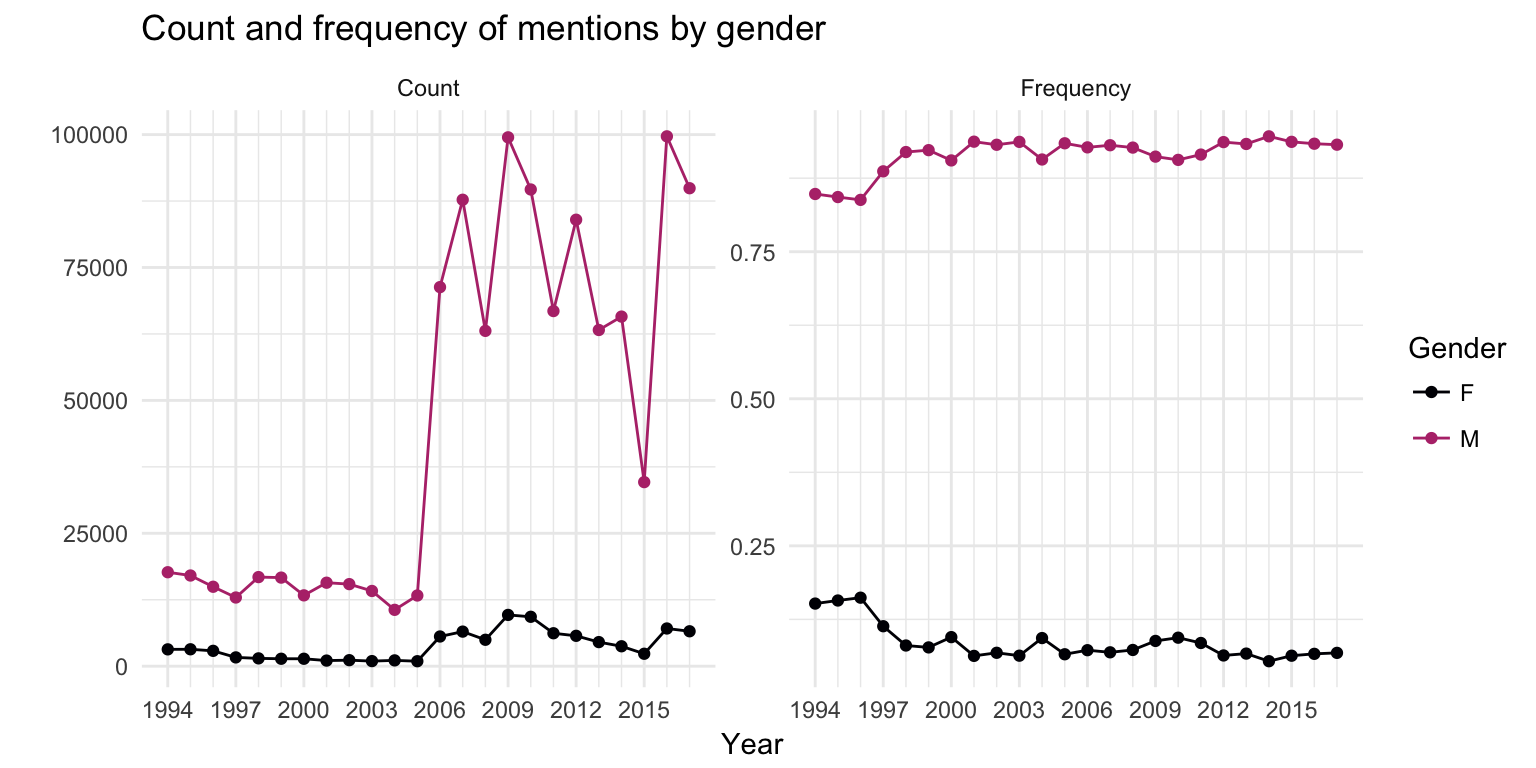
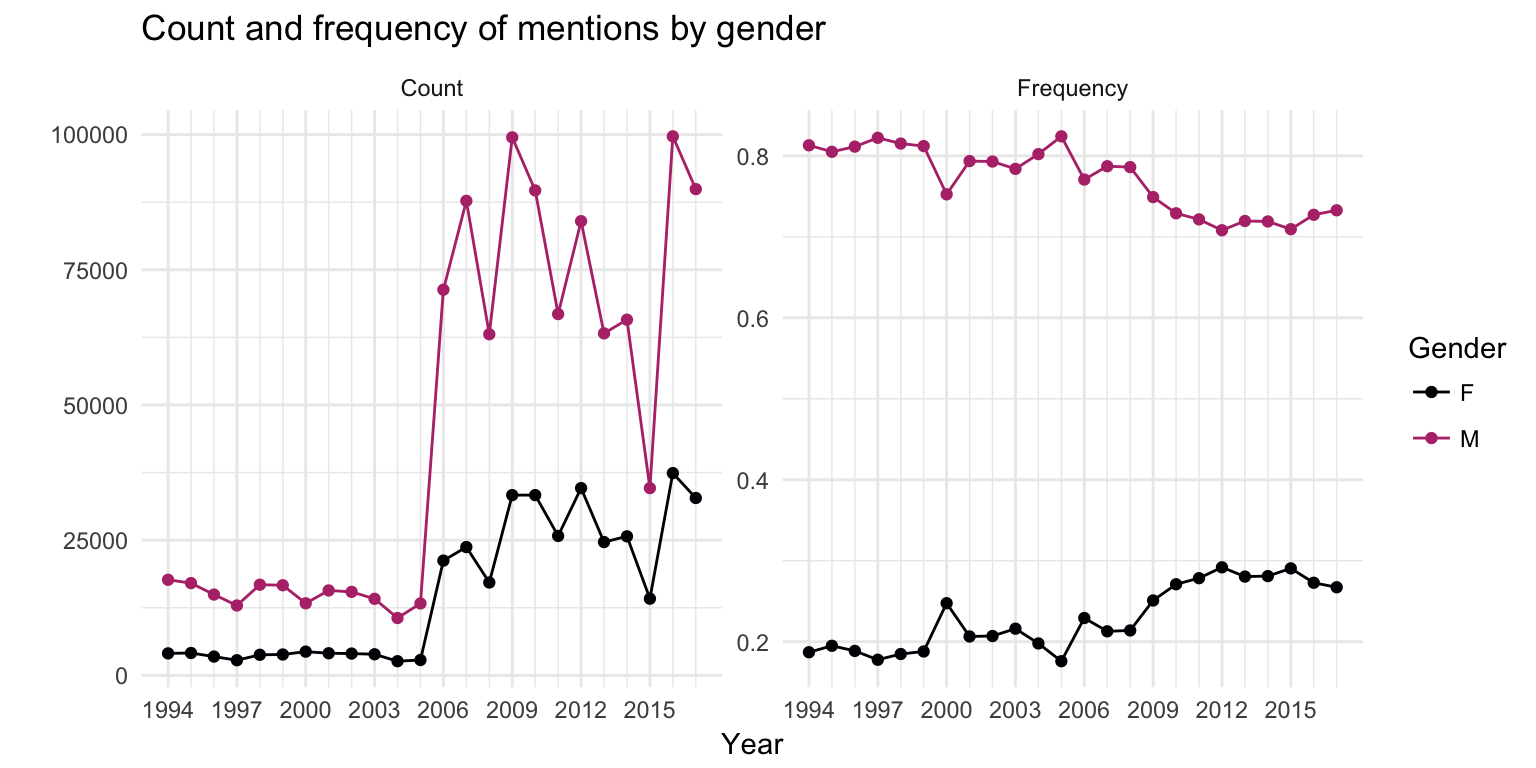
Ugh, turn back to draft.
Berg.

diff --git a/content/post/2018-02-14-parliament-gender.html b/content/post/2018-02-14-parliament-gender.html
@@ -5,8 +5,9 @@ date: '2018-02-14'
 slug: parliament-gender
 categories: ["r"]
 tags: ["r", "canada", "parliament", "gender", "bias", "text analysis", "hansard"]
-description: 'A look at digital copies of Canadian parliamentary debates 1994--2017, showing gender imbalance in both number of speakers and pattern of speakers.'
+description: 'A look at digital copies of Canadian parliamentary debates 1994--2017, showing gender imbalance in both number of speakers and time pattern of speakers.'
 image: "https://jesse.tw/images/circle-arrows.png"
+draft: TRUE
 ---
 
 
@@ -14,18 +15,18 @@ image: "https://jesse.tw/images/circle-arrows.png"
 <p>(Preface: I’m 🇨🇦 but idk anything about parliament and dk what a hansard was before I started this. So if you see something wrong, get the <a href="https://github.com/tweed1e/weblog/blob/master/content/post/2018-02-14-parliament-gender.Rmd">code from github</a> and diy!)</p>
 <div id="summary" class="section level2">
 <h2>Summary</h2>
-<p><a href="#dayplot">(Click to skip to the important pictures.)</a></p>
 <ol style="list-style-type: decimal">
 <li>Women make up 20-25% of Parliament</li>
 <li>Only 8% of speakers in Parliament are female</li>
 <li>That spikes to 13% during “Statements by Members” (one minute statements) and “Oral Questions” (question period), and drops during routine government business</li>
 <li>Nice to have Trudeau’s gender-balanced cabinet, but are female MPs left out of Parliament’s day-to-day business?</li>
 </ol>
+<p><a href="#dayplot">(Click to skip to the important pictures.)</a></p>
 </div>
 <div id="motivation" class="section level2">
 <h2>Motivation</h2>
 <p>When it comes to equality, Canada likes to talk a big game. What really happens in Parliament? Of course Trudeau likes to play up his female cabinet (extra props go to Chrystia Freeland for not capitulating to that weird Belgian area that was <a href="http://www.cbc.ca/news/politics/canada-eu-ceta-brussels-friday-1.3815332">holding up the Canada-EU trade agreement</a>, and I hope she can handle <a href="http://www.cbc.ca/news/politics/freeland-nafta-fifth-round-prepare-for-worst-1.4412673">you-who-know and NAFTA too</a>, although she switched from trade to foreign affairs).</p>
-<p>Don’t take anyone’s word for it; we have data on gender and parliament. What does it say? On one hand, we just set a <a href="https://en.wikipedia.org/wiki/Women_in_the_42nd_Canadian_Parliament">record for female MPs in the 2015 election</a>! On the other hand, that record is only 26%. Uh. Not great. But that’s only part of the story. A gender-balance cabinet helps (Trudeau appointed 15 female ministers out of a 30 minister cabinet). <em>But what actually happens when parliament gets down to business?</em></p>
+<p>But you don’t need to take anyone’s word for it; we have data on gender and parliament. What does it say? On one hand, we just set a <a href="https://en.wikipedia.org/wiki/Women_in_the_42nd_Canadian_Parliament">record for female MPs in the 2015 election</a>! On the other hand, that record is still only 26%. Uh. Not great. But that’s only part of the story. A gender-balance cabinet helps (Trudeau appointed 15 female ministers out of a 30 minister cabinet). <em>But what actually happens when parliament gets down to business?</em></p>
 </div>
 <div id="the-data-httpsopenparliament.ca" class="section level2">
 <h2>The data: <a href="https://openparliament.ca/" class="uri">https://openparliament.ca/</a></h2>
@@ -40,11 +41,11 @@ image: "https://jesse.tw/images/circle-arrows.png"
 <li>and read the table you’d like</li>
 </ol>
 <p>First, I didn’t have postgres. So google <a href="https://www.codementor.io/engineerapart/getting-started-with-postgresql-on-mac-osx-are8jcopb">like mad</a> and get super frustrated, then finally settle on this strat:</p>
-<pre><code>jessetweedle:~ jessetweedle$ brew install postgresql
-jessetweedle:~ jessetweedle$ createdb -T template0 openparl
-jessetweedle:~ jessetweedle$ psql openparl &lt; openparliament.public.sql</code></pre>
+<pre><code>$ brew install postgresql
+$ createdb -T template0 openparl
+$ psql openparl &lt; openparliament.public.sql</code></pre>
 <p>The first one installs postgresql; the next creates the database <code>openparl</code> that I’ll put the data in, and the last one dumps the data I downloaded from the website into the database! Done and done. Now open <code>psql</code> and try to look at what’s inside:</p>
-<pre><code>jessetweedle:~ jessetweedle$ psql postgres
+<pre><code>$ psql postgres
 postgres-# \list
    Name    |    Owner     | Encoding |   Collate   |    Ctype    |       Access privileges       
 -----------+--------------+----------+-------------+-------------+-------------------------------
@@ -154,13 +155,13 @@ han_df %&gt;% print(n = 5)
 han_df &lt;- han_df %&gt;% mutate(time = with_tz(time, &quot;America/Toronto&quot;))
 han_df %&gt;% sample_n(5) # an easy way to look at a random sample of observations instead of just the first 10
 ## # A tibble: 5 x 2
-##   time                who_en                                          
-##   &lt;dttm&gt;              &lt;chr&gt;                                           
-## 1 2009-12-01 11:25:00 The Chair                                       
-## 2 2017-06-15 09:35:00 Hon. John McKay                                 
-## 3 2010-11-04 11:15:00 Hon. Keith Martin (Esquimalt—Juan de Fuca, Lib.)
-## 4 2007-05-17 20:50:00 Mr. Todd Russell                                
-## 5 2013-04-24 17:00:00 Mr. Bill Matthews</code></pre>
+##   time                who_en            
+##   &lt;dttm&gt;              &lt;chr&gt;             
+## 1 1994-12-15 15:10:00 Some hon. members 
+## 2 2016-09-20 08:55:00 Mr. Fred Gaspar   
+## 3 2008-02-06 16:05:00 Mr. William Janzen
+## 4 2014-10-27 16:35:00 Mr. Rick Norlock  
+## 5 2008-01-31 12:50:00 The Chair</code></pre>
 <p>Ok, now we’re getting somewhere. I want to check two things: (1) what does the time distribution look like? and (2) can we get the gender of the MPs from names? Let’s leave (2): if you look at the names, you might be able to get gender with the titles (Mr. vs. Mrs.), but you’re also going to be dropping some ministers; this may bias our results because women are being overrepresented in the data relative to reality (until now, women are much less likely to be ministers). We’ll leave that problem to another day, and say these results provide an upper bound on the relative power of women.</p>
 <div id="cycles-of-activity" class="section level3">
 <h3>Cycles of activity</h3>
@@ -173,20 +174,20 @@ han_df %&gt;% sample_n(5) # an easy way to look at a random sample of observatio
 <p>From our exploratory analysis before, we know that there is often a gendered title associated with the name. As a first stab at the problem, just call names with “Mr.” Male, and names with “Mrs.” Female. (This has its own problems—in a few cases, the hansard specifies that a woman is speaking on behalf of a man, and vice versa.)</p>
 <pre class="r"><code>name_time_gender &lt;- name_time %&gt;% 
   filter(who_en != &quot;&quot;) %&gt;%
-  filter(grepl(&quot;(Mr\\.|Mrs\\.|Miss)&quot;, x = who_en)) %&gt;%
+  filter(grepl(&quot;(Mr\\.|Mrs\\.|Miss|Ms\\.)&quot;, x = who_en)) %&gt;%
   mutate(gender = case_when(
     grepl(&quot;(Mr\\.)&quot;, x = who_en) ~ &quot;M&quot;,
     grepl(&quot;(Mrs\\.|Ms\\.|Miss)&quot;, x = who_en) ~ &quot;F&quot;,
     TRUE ~ &quot;X&quot;))
 name_time_gender %&gt;% sample_n(5)
 ## # A tibble: 5 x 4
-##   time                who_en                              hms    gender
-##   &lt;dttm&gt;              &lt;chr&gt;                               &lt;time&gt; &lt;chr&gt; 
-## 1 2015-03-10 16:55:00 Mr. Rodney Weston (Saint John, CPC) 16:55  M     
-## 2 2017-02-14 16:20:00 Mr. John Aldag                      16:20  M     
-## 3 2016-12-05 16:00:00 Mr. Matthew Johnson                 16:00  M     
-## 4 2008-04-10 16:05:00 Mr. Mike Wallace                    16:05  M     
-## 5 2008-04-29 11:45:00 Mr. Don Johnson                     11:45  M</code></pre>
+##   time                who_en                                  hms   gender
+##   &lt;dttm&gt;              &lt;chr&gt;                                   &lt;tim&gt; &lt;chr&gt; 
+## 1 2009-03-26 12:15:00 Mr. David Mulroney                      12:15 M     
+## 2 2014-11-18 11:45:00 Ms. Rosane Doré Lefebvre (Alfred-Pella… 11:45 F     
+## 3 2017-03-21 13:55:00 Mr. Tom Kmiec                           13:55 M     
+## 4 2014-04-01 16:35:00 Mr. Mike Allen                          16:35 M     
+## 5 2009-02-03 18:05:00 Mr. Pat Martin                          18:05 M</code></pre>
 Ok, that’s not bad; now what are the overall statistics?
 <table class="table" style="width: auto !important; margin-left: auto; margin-right: auto;">
 <thead>
@@ -208,10 +209,10 @@ Freq.
 F
 </td>
 <td style="text-align:right;">
-92482
+367883
 </td>
 <td style="text-align:right;">
-7.8%
+25.2%
 </td>
 </tr>
 <tr>
@@ -222,15 +223,15 @@ M
 1093827
 </td>
 <td style="text-align:right;">
-92.2%
+74.8%
 </td>
 </tr>
 </tbody>
 </table>
-<p>Ugh. &lt;10%, even though there are &gt;20% female MPs. Does it change over time? We know 2015 was a record breaking election for female candidates; on the other hand, the previous record was 1993. So in between: 🤷♂.</p>
+<p>Ugh. &lt;10%, even though there are &gt;20% female MPs. Does it change over time? We know 2015 was a record breaking election for female candidates; on the other hand, the previous record was 1993. So in between: 🤷🏿♂.</p>
 <p><img src="/post/2018-02-14-parliament-gender_files/figure-html/unnamed-chunk-10-1.png" width="768" /></p>
-<p>Whoops. There’s an obvious break in the series for Count—so something happened to the data collection or the structure of the hansard (it’s less likely that parliament itself changed in that year). On the other hand, the frequency doesn’t change, so it’s unlikely to change our conclusions for gender imbalance. Just one thing to keep in mind for the future.</p>
-<p>But really—7.8% is pretty bad. That’s much lower than the number of female MPs of around 20%. They’re underrepresented, and the ones that are there aren’t talking. Hmm. Is there more to the story?</p>
+<p>Whoops. There’s an obvious break in the series for Count—so something happened to the data collection or the structure of the hansard (it’s less likely that parliament itself changed significantly at that time). On the other hand, the frequency doesn’t change, so it’s unlikely to change our conclusions for gender imbalance. Just one thing to keep in mind for the future.</p>
+<p>But really—25.2% is pretty bad. That’s much lower than the number of female MPs of around 20%. They’re underrepresented, and the ones that are there aren’t talking. Hmm. Is there more to the story?</p>
 </div>
 <div id="dayplot" class="section level3">
 <h3>Gender (im)balance in Parliament: time and day patterns</h3>
@@ -261,27 +262,13 @@ M
 Statements by Members
 </td>
 <td style="text-align:right;">
-3910
+10270
 </td>
 <td style="text-align:right;">
 26832
 </td>
 <td style="text-align:right;">
-12.72%
-</td>
-</tr>
-<tr>
-<td style="text-align:left;">
-Oral Questions
-</td>
-<td style="text-align:right;">
-9629
-</td>
-<td style="text-align:right;">
-79904
-</td>
-<td style="text-align:right;">
-10.75%
+27.68%
 </td>
 </tr>
 <tr>
@@ -289,27 +276,13 @@ Oral Questions
 Adjournment Proceedings
 </td>
 <td style="text-align:right;">
-1966
+6732
 </td>
 <td style="text-align:right;">
 18423
 </td>
 <td style="text-align:right;">
-9.64%
-</td>
-</tr>
-<tr>
-<td style="text-align:left;">
-Private Members’ Business
-</td>
-<td style="text-align:right;">
-3217
-</td>
-<td style="text-align:right;">
-40253
-</td>
-<td style="text-align:right;">
-7.40%
+26.76%
 </td>
 </tr>
 <tr>
@@ -317,13 +290,27 @@ Private Members’ Business
 Review of Delegated Legislation
 </td>
 <td style="text-align:right;">
-82
+370
 </td>
 <td style="text-align:right;">
 1029
 </td>
 <td style="text-align:right;">
-7.38%
+26.45%
+</td>
+</tr>
+<tr>
+<td style="text-align:left;">
+Oral Questions
+</td>
+<td style="text-align:right;">
+27993
+</td>
+<td style="text-align:right;">
+79904
+</td>
+<td style="text-align:right;">
+25.94%
 </td>
 </tr>
 <tr>
@@ -331,13 +318,27 @@ Review of Delegated Legislation
 Government Orders
 </td>
 <td style="text-align:right;">
-61409
+256603
 </td>
 <td style="text-align:right;">
 779895
 </td>
 <td style="text-align:right;">
-7.30%
+24.76%
+</td>
+</tr>
+<tr>
+<td style="text-align:left;">
+Private Members’ Business
+</td>
+<td style="text-align:right;">
+11998
+</td>
+<td style="text-align:right;">
+40253
+</td>
+<td style="text-align:right;">
+22.96%
 </td>
 </tr>
 </tbody>
@@ -346,7 +347,7 @@ Government Orders
 <p>That’s it. Parliament’s gender power imbalance boils down to three facts:</p>
 <ol style="list-style-type: decimal">
 <li>there aren’t many women (20-25% of members),</li>
-<li>the women that are there are underrepresented on the floor (7.8% of speakers),</li>
+<li>the women that are there are underrepresented on the floor (25.2% of speakers),</li>
 <li>they speak almost twice as often during statements by members and question period than during routine government business.</li>
 </ol>
 <p>And that’s before we get to the words! Who knows what these people are actually saying? <a href="https://github.com/juliasilge/tidytext">tidytext</a> does! And after writing this, I found out about <a href="https://www.lipad.ca/data/">Linked Parliamentary Data Project (LiPaD)</a> at the University of Toronto, an even larger historical digital source of Canadian Hansards. Who knows what we can come up with!</p>
